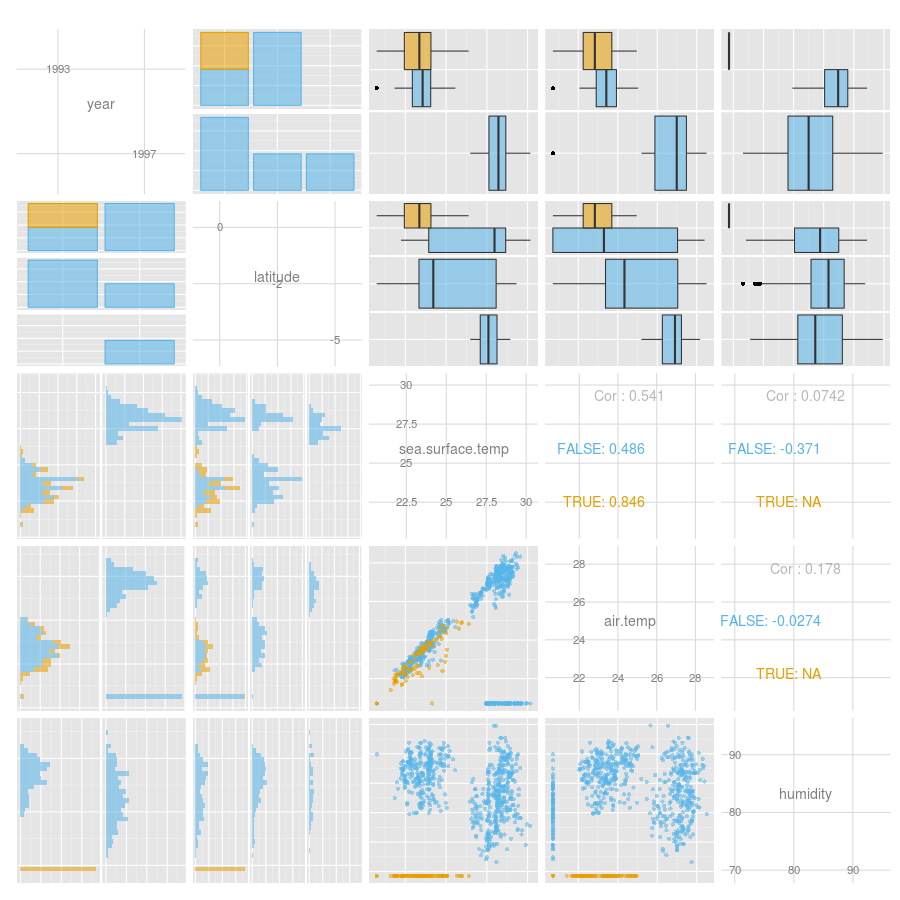
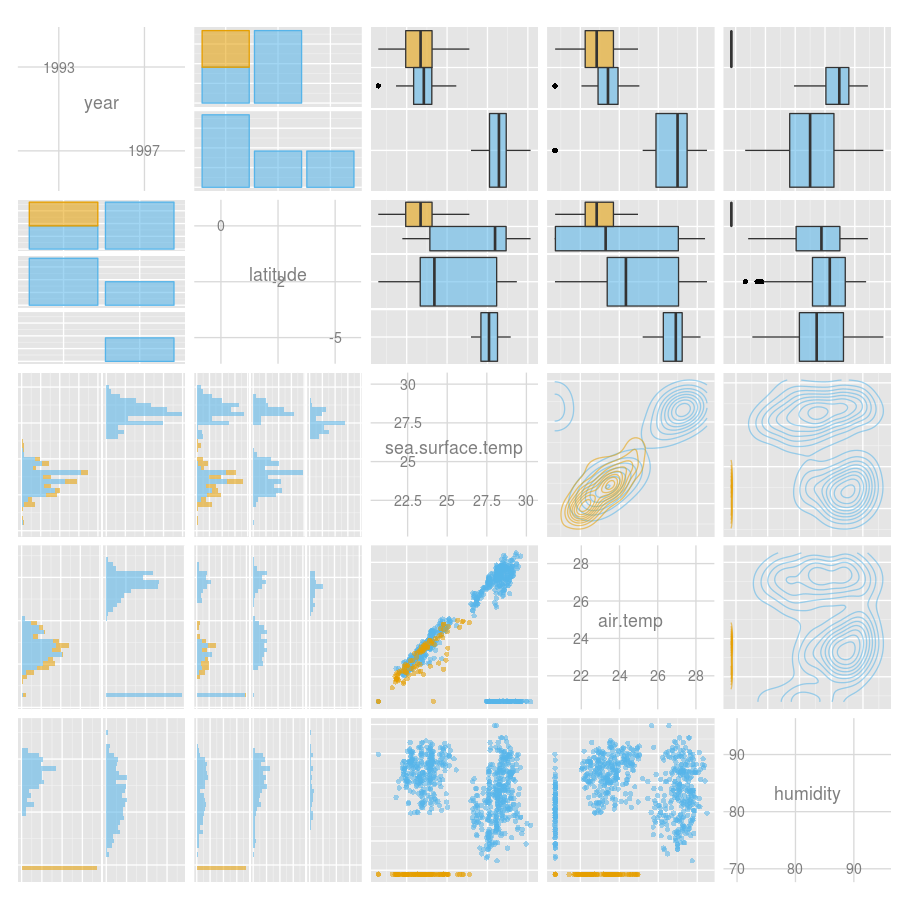
the problem of the contour plots is solved after the package update

diff --git a/MissingDataGUI.tex b/MissingDataGUI.tex
@@ -376,7 +376,7 @@ Histograms and barcharts are shown one by one for all the variables selected. Wh
 
 The spinogram (for continuous variable) and spineplot (for categorical variable), introduced by \citet{hummel1996linked} and \citet{theus1999visualizing}, use width of the rectangle to represent count. Height is the same for all bars. The focus is on proportion for each group. The bars in the spinogram or spineplot are partitioned into two colors for the missing and non-missing values.
 
-A scatterplot matrix is used to display pairs of variables. Variable names and scales are placed on the diagonal. For the continuous variables, the pairwise scatterplots are shown in the lower triangle. The upper triangle has two possibilities: contour plots when all the selected incomplete variables are employed to color on, or the correlation coefficients when at least one selected incomplete variable is not used to color on. For the categorical variables, barcharts by the categories of the vertical variable are given on both triangles. Again, the bars are colored in proportion to the missings. The combination of continuous and categorical variables is displayed as side-by-side boxplots of missing and non-missing values for each category on the upper triangle and side-by-side histograms on the lower triangle. Limited space available to the graphics device limits the number of variables that can be shown. The upper limit of the number of variables is set to be 5 and the lower limit is 2.
+A scatterplot matrix is used to display pairs of variables. Variable names and scales are placed on the diagonal. For the continuous variables, the pairwise scatterplots are placed in the lower triangle, and the contour plots are shown in the upper triangle. For the categorical variables, barcharts by the categories of the vertical variable are given on both triangles. Again, the bars are colored in proportion to the missings. The combination of continuous and categorical variables is displayed as side-by-side boxplots of missing and non-missing values for each category on the upper triangle and side-by-side histograms on the lower triangle. Limited space available to the graphics device limits the number of variables that can be shown. The upper limit of the number of variables is set to be 5 and the lower limit is 2.
 
 The parallel coordinates plot by \citet{inselberg1985plane} and \citet{wegman1990hyperdimensional} visualizes high-dimensional data. Though many plot types, like the scatterplot or histogram, are helpful to reveal the missing pattern, they are not convenient to display many variables simultaneously. Parallel coordinates plot, conversely, can give an overview on a relatively large quantity of variables. In the missing data GUI, the order of the variables can be chosen in one of two ways: the original order in the data, or by sorting the variables from the best separator to the worst by F statistic from ANOVA. In Figure~\ref{fig:graphtypes}, the best separating variable for the missingness of humidity is humidity itself, because the ``below 10\%'' method makes a big gap between the missing and non-missing values. ``Below 10\%'' is not an ideal method for the ordered parallel coordinates plot. However, the plot is still useful: it reveals that the missingness of humidity occurred in one year and one location, when sea.surface.temp and air.temp were low.
 
